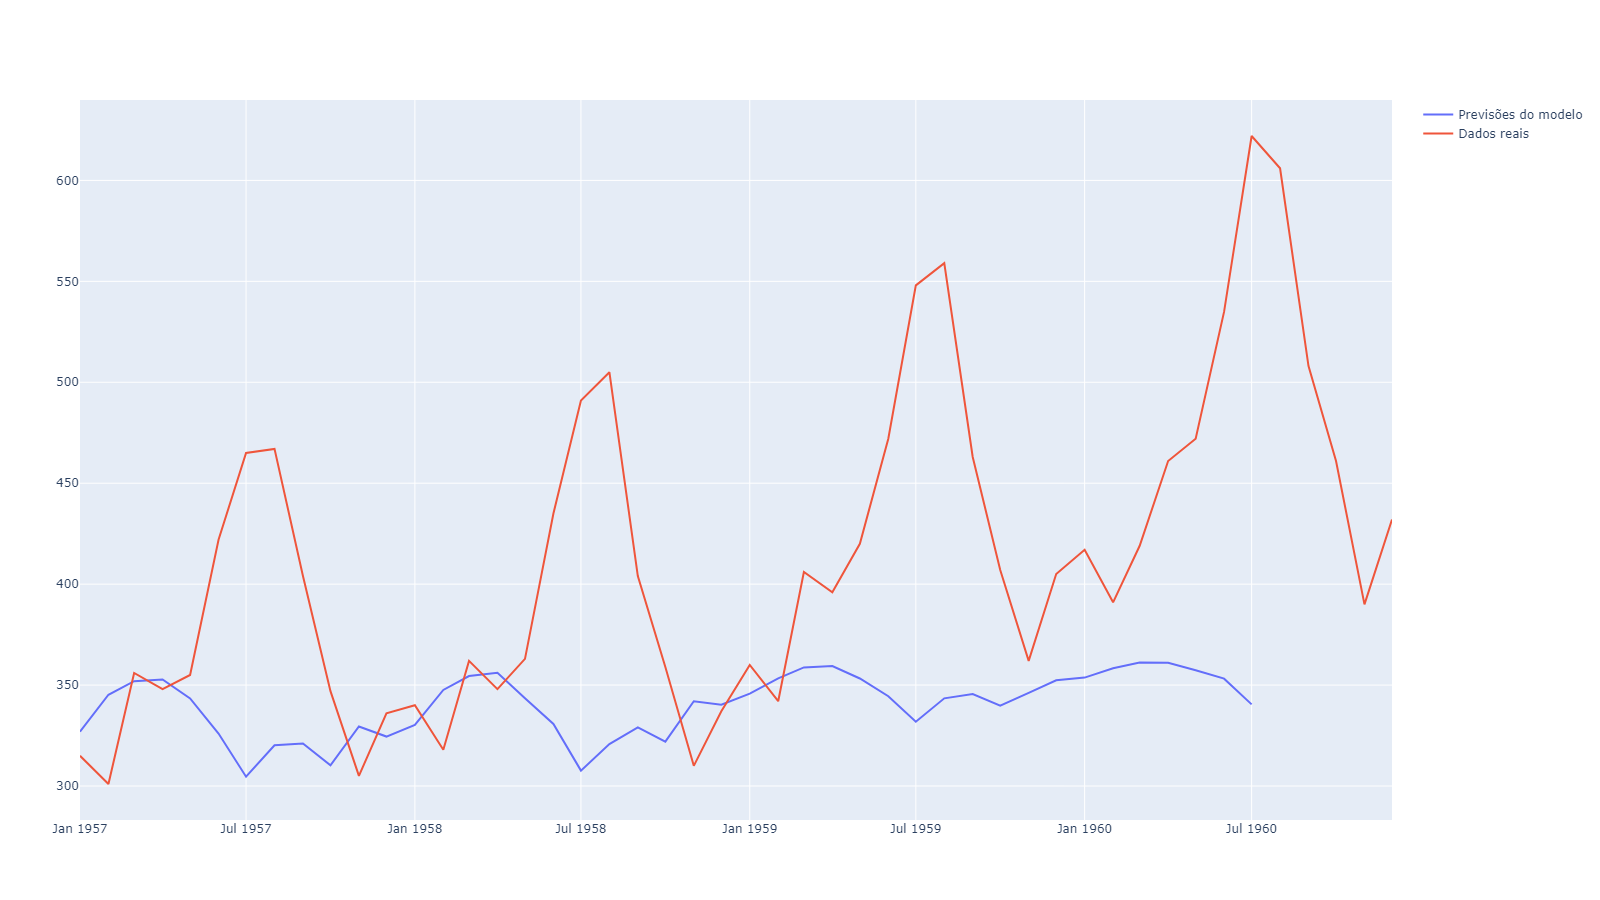
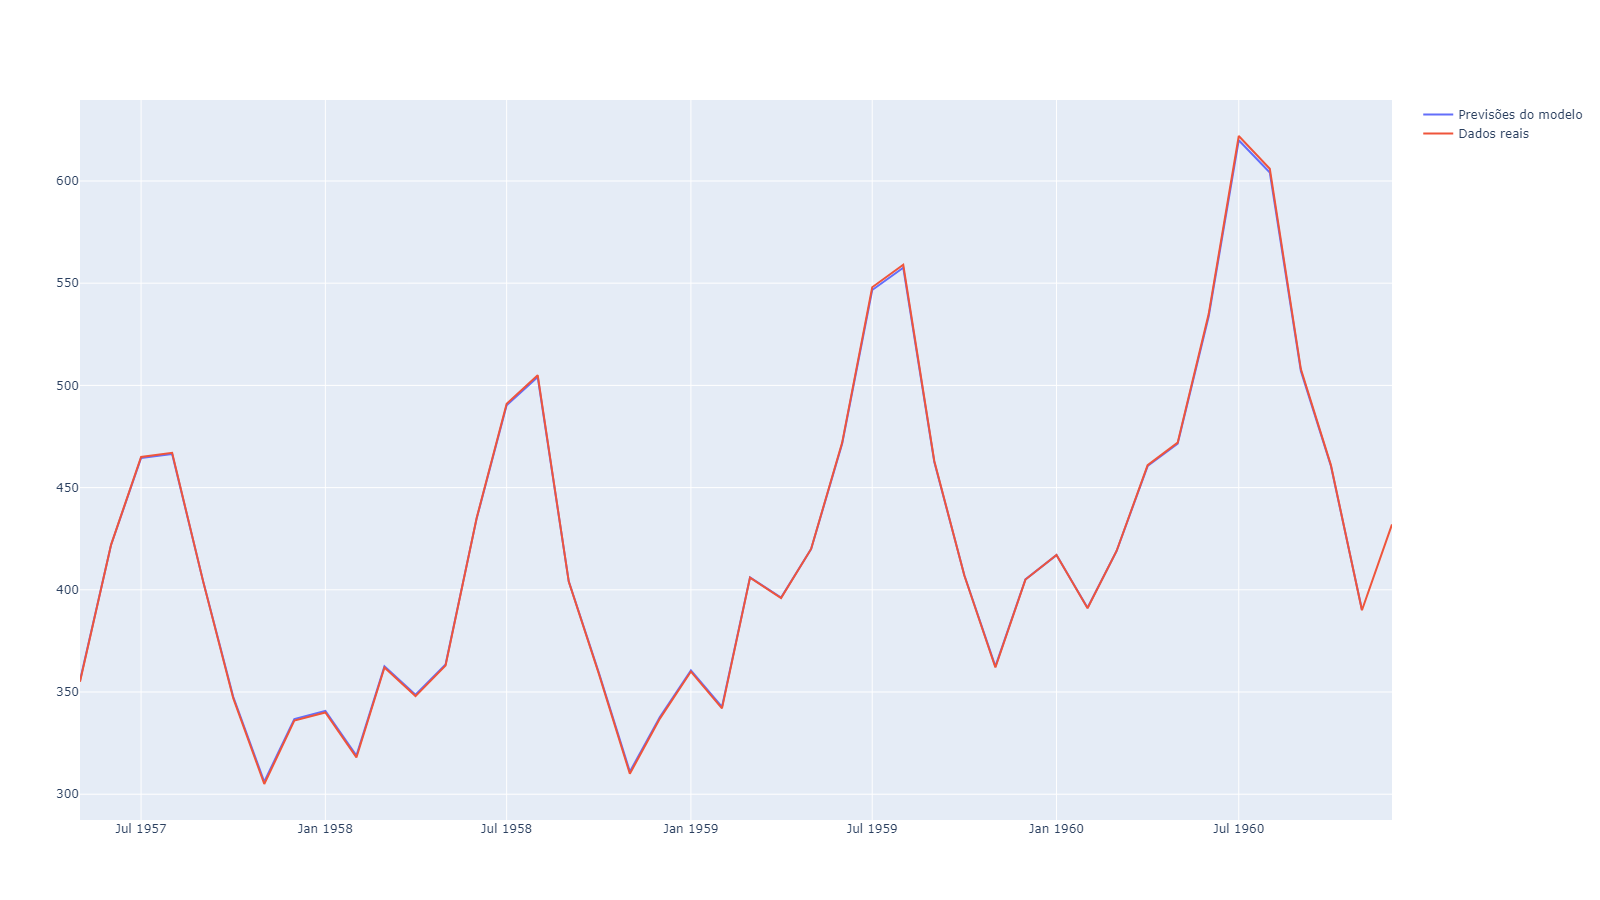
asdf

diff --git a/Code/LSTM_continuous.py b/Code/LSTM_continuous.py
@@ -1,4 +1,5 @@
-from keras import * 
+from keras import *
+from numpy.core.numeric import True_ 
 import pandas as pd
 from pandas.core.arrays import integer 
 import pandas_datareader.data as web
@@ -11,26 +12,25 @@ import matplotlib.pyplot as plt
 from sklearn.preprocessing import MinMaxScaler
 from Auxiliary_functions import *
 from tensorflow.keras import Sequential
+import plotly.graph_objects as go
+from sklearn.preprocessing import MinMaxScaler
 
 #--------------------#--------------------#--------------------#--------------------#--------------------#--------------------#--------------------#--------------------#--------------------#
 '''
 Aqui carregamos nossos dados na memória e chamamos a função definida anteriormente
 '''
-dataframe_path = fr"C:\Users\GuilhermeTakata\Documents\TCC\TCC\Datasets\Uniqlo(FastRetailing) 2012-2016 Training - stocks2012-2016.csv"
 
-dataframe = web.DataReader('AAPL', 'yahoo', start = '2010-01-01', end = '2020-12-31') # Carregamos nossos dados de treino na memória usando o pandas
+dataframe_train = web.DataReader('AAPL', 'yahoo', start = '2000-01-01', end = '2021-07-31') # Carregamos nossos dados de treino na memória usando o pandas
 
-display(dataframe)
+data = dataframe_train['Close'].to_list()
 
-data = dataframe['Close'].to_list()
+len_lags = 20 # tamanho da nossa janela
 
-print(data)
-
-len_lags = 3 # tamanho da nossa janela
-
-X_train, y_train = split_sequence(data, len_lags)
+X_train, Y_train = split_sequence(data, len_lags)
 
 X_train = X_train.reshape((X_train.shape[0], X_train.shape[1], 1))
+
+print(X_train.shape)
 
 #--------------------#--------------------#--------------------#--------------------#--------------------#--------------------#--------------------#--------------------#--------------------#
 
@@ -39,16 +39,11 @@ Parte responsável pela construção, experimentação e treinamento das redes
 '''
 
 Model = Sequential() # Inicialização da nossa rede
-Model.add(LSTM(128, input_shape = (len_lags, 1), return_sequences = True))
-Model.add(LSTM(64, input_shape = (len_lags, 1)))
-# Model.add(LSTM(64))
-# Model.add(LSTM(32))
-Model.add(Dense(20, use_bias = False))
-Model.add(Dense(1))
+Model.add(LSTM(units = 100, return_state = False))
+Model.add(Dense(units = 1, activation = "exponential"))
 Model.compile(loss = 'mean_squared_error', optimizer = 'adam') # Compilação do modelo indicando qual função de perda a ser usada e o otimizador de escolha
 
-Model.fit(X_train, y_train, epochs = 20, batch_size = 30, verbose = 1) # Chamada do treinamento e otimização da rede
-
+Model.fit(X_train, Y_train, epochs = 15, batch_size = 300, verbose = 1) # Chamada do treinamento e otimização da rede
 
 
 #--------------------#--------------------#--------------------#--------------------#--------------------#--------------------#--------------------#--------------------#--------------------#
@@ -57,7 +52,7 @@ Model.fit(X_train, y_train, epochs = 20, batch_size = 30, verbose = 1) # Chamada
 Carregamento dos dados de validação do modelo
 '''
 
-dataframe2 = web.DataReader('AAPL', 'yahoo', start = '2021-01-01', end = '2021-09-30') # Carregamento na memória da nossa base de teste 
+dataframe2 = web.DataReader('AAPL', 'yahoo', start = '2021-08-01', end = '2021-11-17') # Carregamento na memória da nossa base de teste 
 
 data_test = dataframe2['Close'].values.tolist()
 
@@ -67,6 +62,7 @@ X_test = X_test.reshape((X_test.shape[0], X_test.shape[1], 1))
 
 predictions = Model.predict(X_test)
 
+print(Model.evaluate(X_test, Y_test))
 
 #--------------------#--------------------#--------------------#--------------------#--------------------#--------------------#--------------------#--------------------#--------------------#
 
@@ -74,11 +70,10 @@ predictions = Model.predict(X_test)
 Plotagem para comparação dos dados de teste e as predições feitas
 '''
 
-# index = [x for x in range(len(Y_test))]
+fig = go.Figure(go.Scatter(x = dataframe2.index, y = Y_test, name = "Dados reais", mode = "lines+markers"))
 
-plt.plot(dataframe2.index , Y_test, label = "original")
+fig.add_trace(go.Scatter(x = dataframe2.index, y = predictions[:][:,0], name = "Predições do modelo", mode = "lines+markers"))
 
-plt.plot(dataframe2.index, predictions[:,0][:], label = "predição do modelo")
+fig.write_image(fr"C:\Users\GuilhermeTakata\Documents\Tese2021\Graphs and Images\LSTM_AAPL.png", format = "png", width = 1600, height = 900)
 
-plt.legend(loc = 'best')
-plt.show()
+fig.show()

diff --git a/Code/LSTM_discrete.py b/Code/LSTM_discrete.py
@@ -1,9 +1,9 @@
-from numpy.core.numeric import False_
 import pandas as pd 
 import numpy as np 
 import tensorflow as tf
 from tensorflow.keras.layers import *
 import matplotlib.pyplot as plt
+from tensorflow.python.keras.layers import recurrent
 from Auxiliary_functions import *
 import math
 from IPython.display import display
@@ -14,9 +14,9 @@ from sklearn.preprocessing import MinMaxScaler
 from Auxiliary_functions import *
 from tensorflow.keras import Sequential
 import plotly.graph_objects as go
+from sklearn.metrics import *
 
-
-len_lags = 5
+len_lags = 1
 
 '''
 Seção para carregamento da base de dados e adequação dos nossos dados de treinamento
@@ -28,9 +28,11 @@ dataframe["Month"] = pd.to_datetime(dataframe["Month"], format = "%Y-%m")
 
 dataframe.set_index("Month", inplace = True)
 
+dataframe["Passengers"] = pd.to_numeric(dataframe["Passengers"], downcast = "float")
+
 series = dataframe['Passengers'].values.tolist()
 
-split_margin = math.floor(len(series) * 0.67) # Número usado para pegar 80% dos registros da nossa base
+split_margin = math.floor(len(series) * 0.7) # Número usado para pegar 80% dos registros da nossa base
 
 train_index = dataframe.iloc[ :split_margin + 1].index.tolist()
 
@@ -50,12 +52,13 @@ Construção da rede a ser usada e treinada no nosso conjunto de dados
 '''
 
 Model = Sequential() # Inicialização da nossa rede
-Model.add(LSTM(units = 20, input_shape = (len_lags, 1)))
-Model.add(Dense(1, activation = "exponential"))
-Model.compile(loss = 'mean_squared_error', optimizer = 'adam') # Compilação do modelo indicando qual função de perda a ser usada e o otimizador de escolha
+Model.add(tf.keras.Input(shape=(len_lags,1)))
+Model.add(LSTM(units = 20, activation = "elu", recurrent_activation = "sigmoid", return_sequences = True))
+Model.add(LSTM(units = 15, activation = "elu", recurrent_activation = "sigmoid"))
+Model.add(Dense(1, activation = "ReLU"))
+Model.compile(loss = 'mse', optimizer = 'adam') # Compilação do modelo indicando qual função de perda a ser usada e o otimizador de escolha
 
-Model.fit(X_train, Y_train, epochs = 30, batch_size = 1 , verbose = 2) # Chamada do treinamento e otimização da rede
-
+Model.fit(X_train, Y_train, epochs = 20, batch_size = 10 , verbose = 1) # Chamada do treinamento e otimização da rede
 
 X_test, Y_test = split_sequence(series_test, len_lags)
 
@@ -63,6 +66,7 @@ X_test = X_test.reshape((X_test.shape[0], X_test.shape[1],1))
 
 Test_predictions = Model.predict(X_test)
 
+results = Model.evaluate(X_test, Y_test, batch_size = 10)
 #--------------------#--------------------#--------------------#--------------------#--------------------#--------------------#--------------------#--------------------#--------------------#
 
 fig = go.Figure(data = go.Scatter(x = test_index, y = Test_predictions[:,0][:], name = "Previsões do modelo"))

diff --git a/Code/ARIMA.py b/Code/ARIMA.py
@@ -12,7 +12,7 @@ from sklearn.metrics import *
 def arima_model(series): # Funcão para achar os melhores parâmetros para o modelo de ARIMA
 
 
-    autoarima = pmd.auto_arima(series, trace = True, start_p = 1, start_q = 1, max_p = 5, max_q = 5, d = 1, seasonal = True, start_P = 1, start_Q = 1, D = 1, m = 7, stepwise = False, maxiter= 1000)
+    autoarima = pmd.auto_arima(series, trace = True, start_p = 1, start_q = 1, max_p = 5, max_q = 5, d = 1, seasonal = True, start_P = 1, start_Q = 1, D = 1, m = 7, stepwise = False, maxiter= 1500)
     autoarima.fit(series)
 
     return(autoarima)
@@ -30,7 +30,7 @@ def load_dataframe(name: str):
 
     else:
 
-        dataframe = web.DataReader('AAPL', 'yahoo', start = '2017-01-01', end = '2021-09-30')
+        dataframe = web.DataReader('AAPL', 'yahoo', start = '2016-01-01', end = '2021-10-31')
 
     return(dataframe)
 
@@ -40,9 +40,9 @@ dataframe = load_dataframe(dataset_name)
 
 data_series = dataframe['Close']
 
-train_data = data_series[:math.floor(len(data_series)*0.8)]
+train_data = data_series[:math.floor(len(data_series)*0.7)]
 
-test_data = data_series[math.floor(len(data_series)*0.8):]
+test_data = data_series[math.floor(len(data_series)*0.7):]
 
 model = arima_model(train_data)
 
@@ -56,18 +56,9 @@ fig_test.add_trace(go.Scatter(x = dataframe.index, y = test_data, name = "Dados 
 
 fig_test.show()
 
-fig_test.write_image(fr"C:\Users\GuilhermeTakata\Documents\Tese2021\Graphs and Images\ARIMA_passengers.png",
+fig_test.write_image(fr"C:\Users\GuilhermeTakata\Documents\Tese2021\Graphs and Images\ARIMA_AAPL.png",
 					width=1600, format='png', height=900)
 
 mse = mean_squared_error(test_data, model_pred)
 
 print(mse)
-
-# plt.plot(train_data.index, train_data, color = 'purple', label = 'Dados de treinamento')
-
-# plt.plot(test_data.index, model_pred, color = 'blue', label = 'Predição do modelo')
-
-# plt.plot(test_data.index, test_data, color = 'red', label = 'Dados reais')
-
-# plt.show()
-

diff --git a/Code/Auxiliary_functions.py b/Code/Auxiliary_functions.py
@@ -28,11 +28,3 @@ def split_sequence(x: list, time_lag : int):
         y.append(seq_y)
     return np.array(X), np.array(y)
 
-def create_dataset(dataset, look_back):
-    dataX, dataY = [], []
-    for i in range(len(dataset)-look_back-1):
-        a = dataset[i:(i+look_back), 0]
-        dataX.append(a)
-        dataY.append(dataset[i + look_back, 0])
-    return np.array(dataX), np.array(dataY)
-
